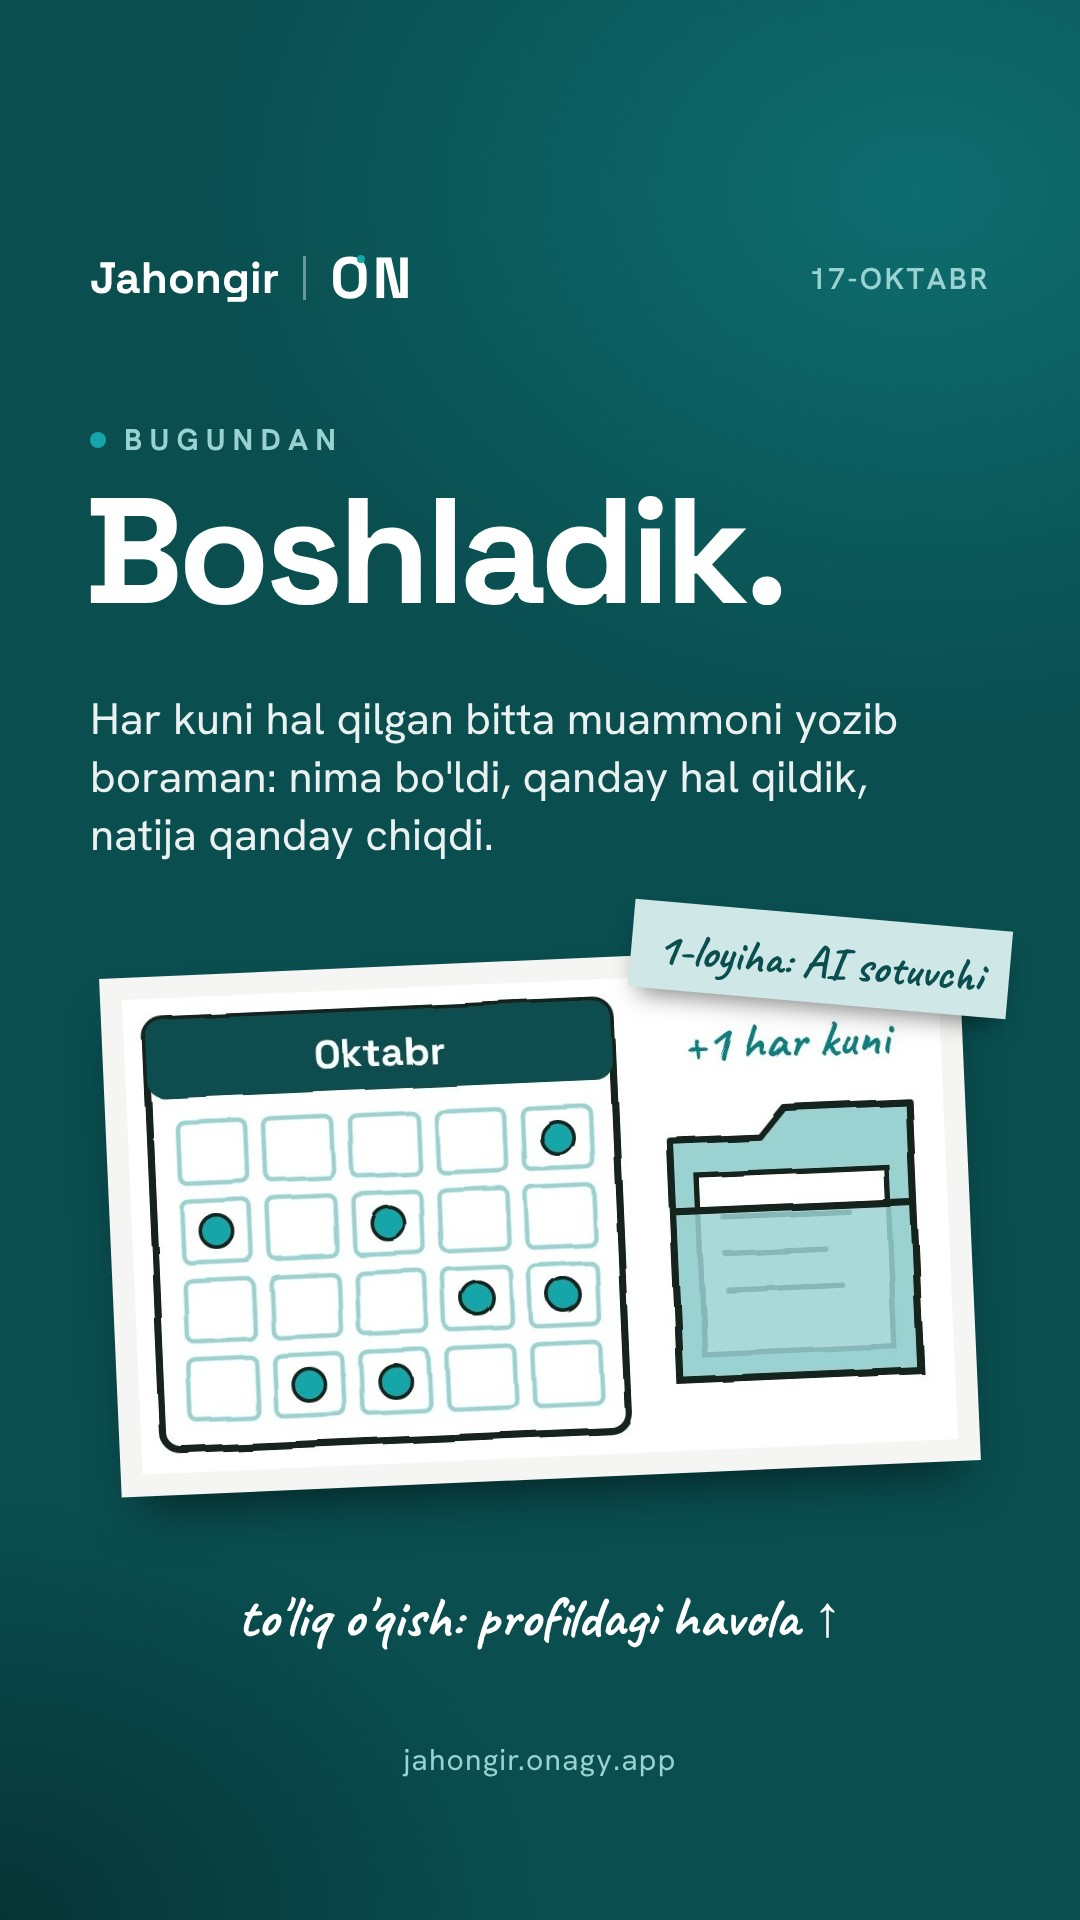
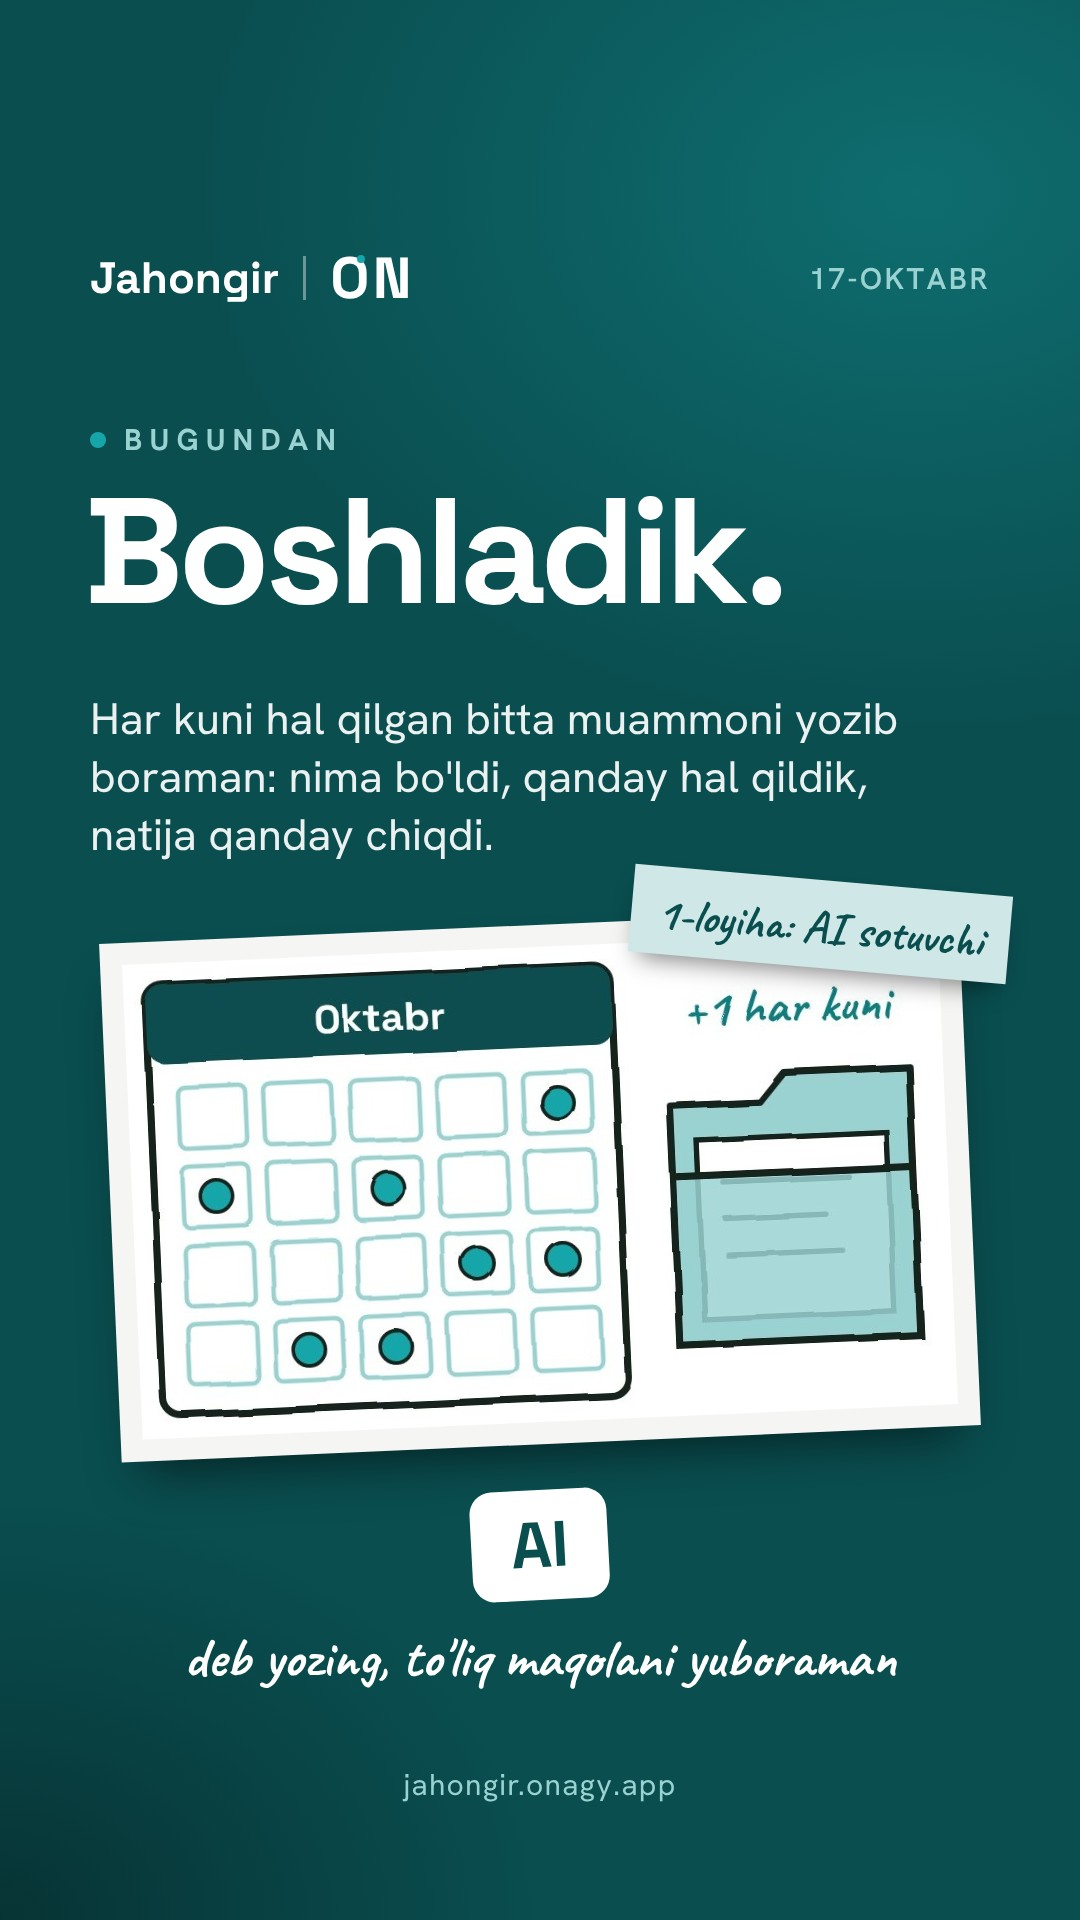
Instagram story: 'AI deb yozing' versiyasi, story-map.json (AI agent uchun) va avtomat yangilash
Claude-Session: https://claude.ai/code/session_016nT1brftc5kLuVNmAVZKjZ

Changed region(s): [[0.0917, 0.4375, 0.9472, 0.875], [0.3667, 0.9062, 0.6417, 0.9375]]

diff --git a/scripts/ig_story.py b/scripts/ig_story.py
@@ -1,4 +1,6 @@
-# Instagram story joylaydi (jahongir.olmos). Foydalanish: python3 scripts/ig_story.py <ochiq rasm URL>
+# Instagram story joylaydi (jahongir.olmos).
+# Foydalanish: python3 scripts/ig_story.py <ochiq rasm URL> [post havolasi] [sarlavha]
+# Havola berilsa, story ID → havola content/story-map.json ga yoziladi (AI agent "AI" deb yozganga shuni yuboradi).
 # Token faqat IG_TOKEN muhit o'zgaruvchisidan olinadi, chop etilmaydi.
 import json, os, sys, time, urllib.request, urllib.parse
 T = os.environ.get("IG_TOKEN", "").strip() or sys.exit("IG_TOKEN topilmadi")
@@ -22,4 +24,9 @@ for _ in range(20):
     time.sleep(3)
 r = call(f"{uid}/media_publish", "POST", creation_id=c["id"])
 print("natija:", json.dumps({"ok": "id" in r, "id": r.get("id"), "xato": r.get("error", {}).get("message")}, ensure_ascii=False))
+if "id" in r and len(sys.argv) > 2:
+    m = json.load(open("content/story-map.json"))
+    m.setdefault("stories", {})[r["id"]] = {"url": sys.argv[2], "title": sys.argv[3] if len(sys.argv) > 3 else ""}
+    json.dump(m, open("content/story-map.json", "w"), ensure_ascii=False, indent=2)
+    print("story-map yangilandi:", r["id"])
 sys.exit(0 if "id" in r else 1)
